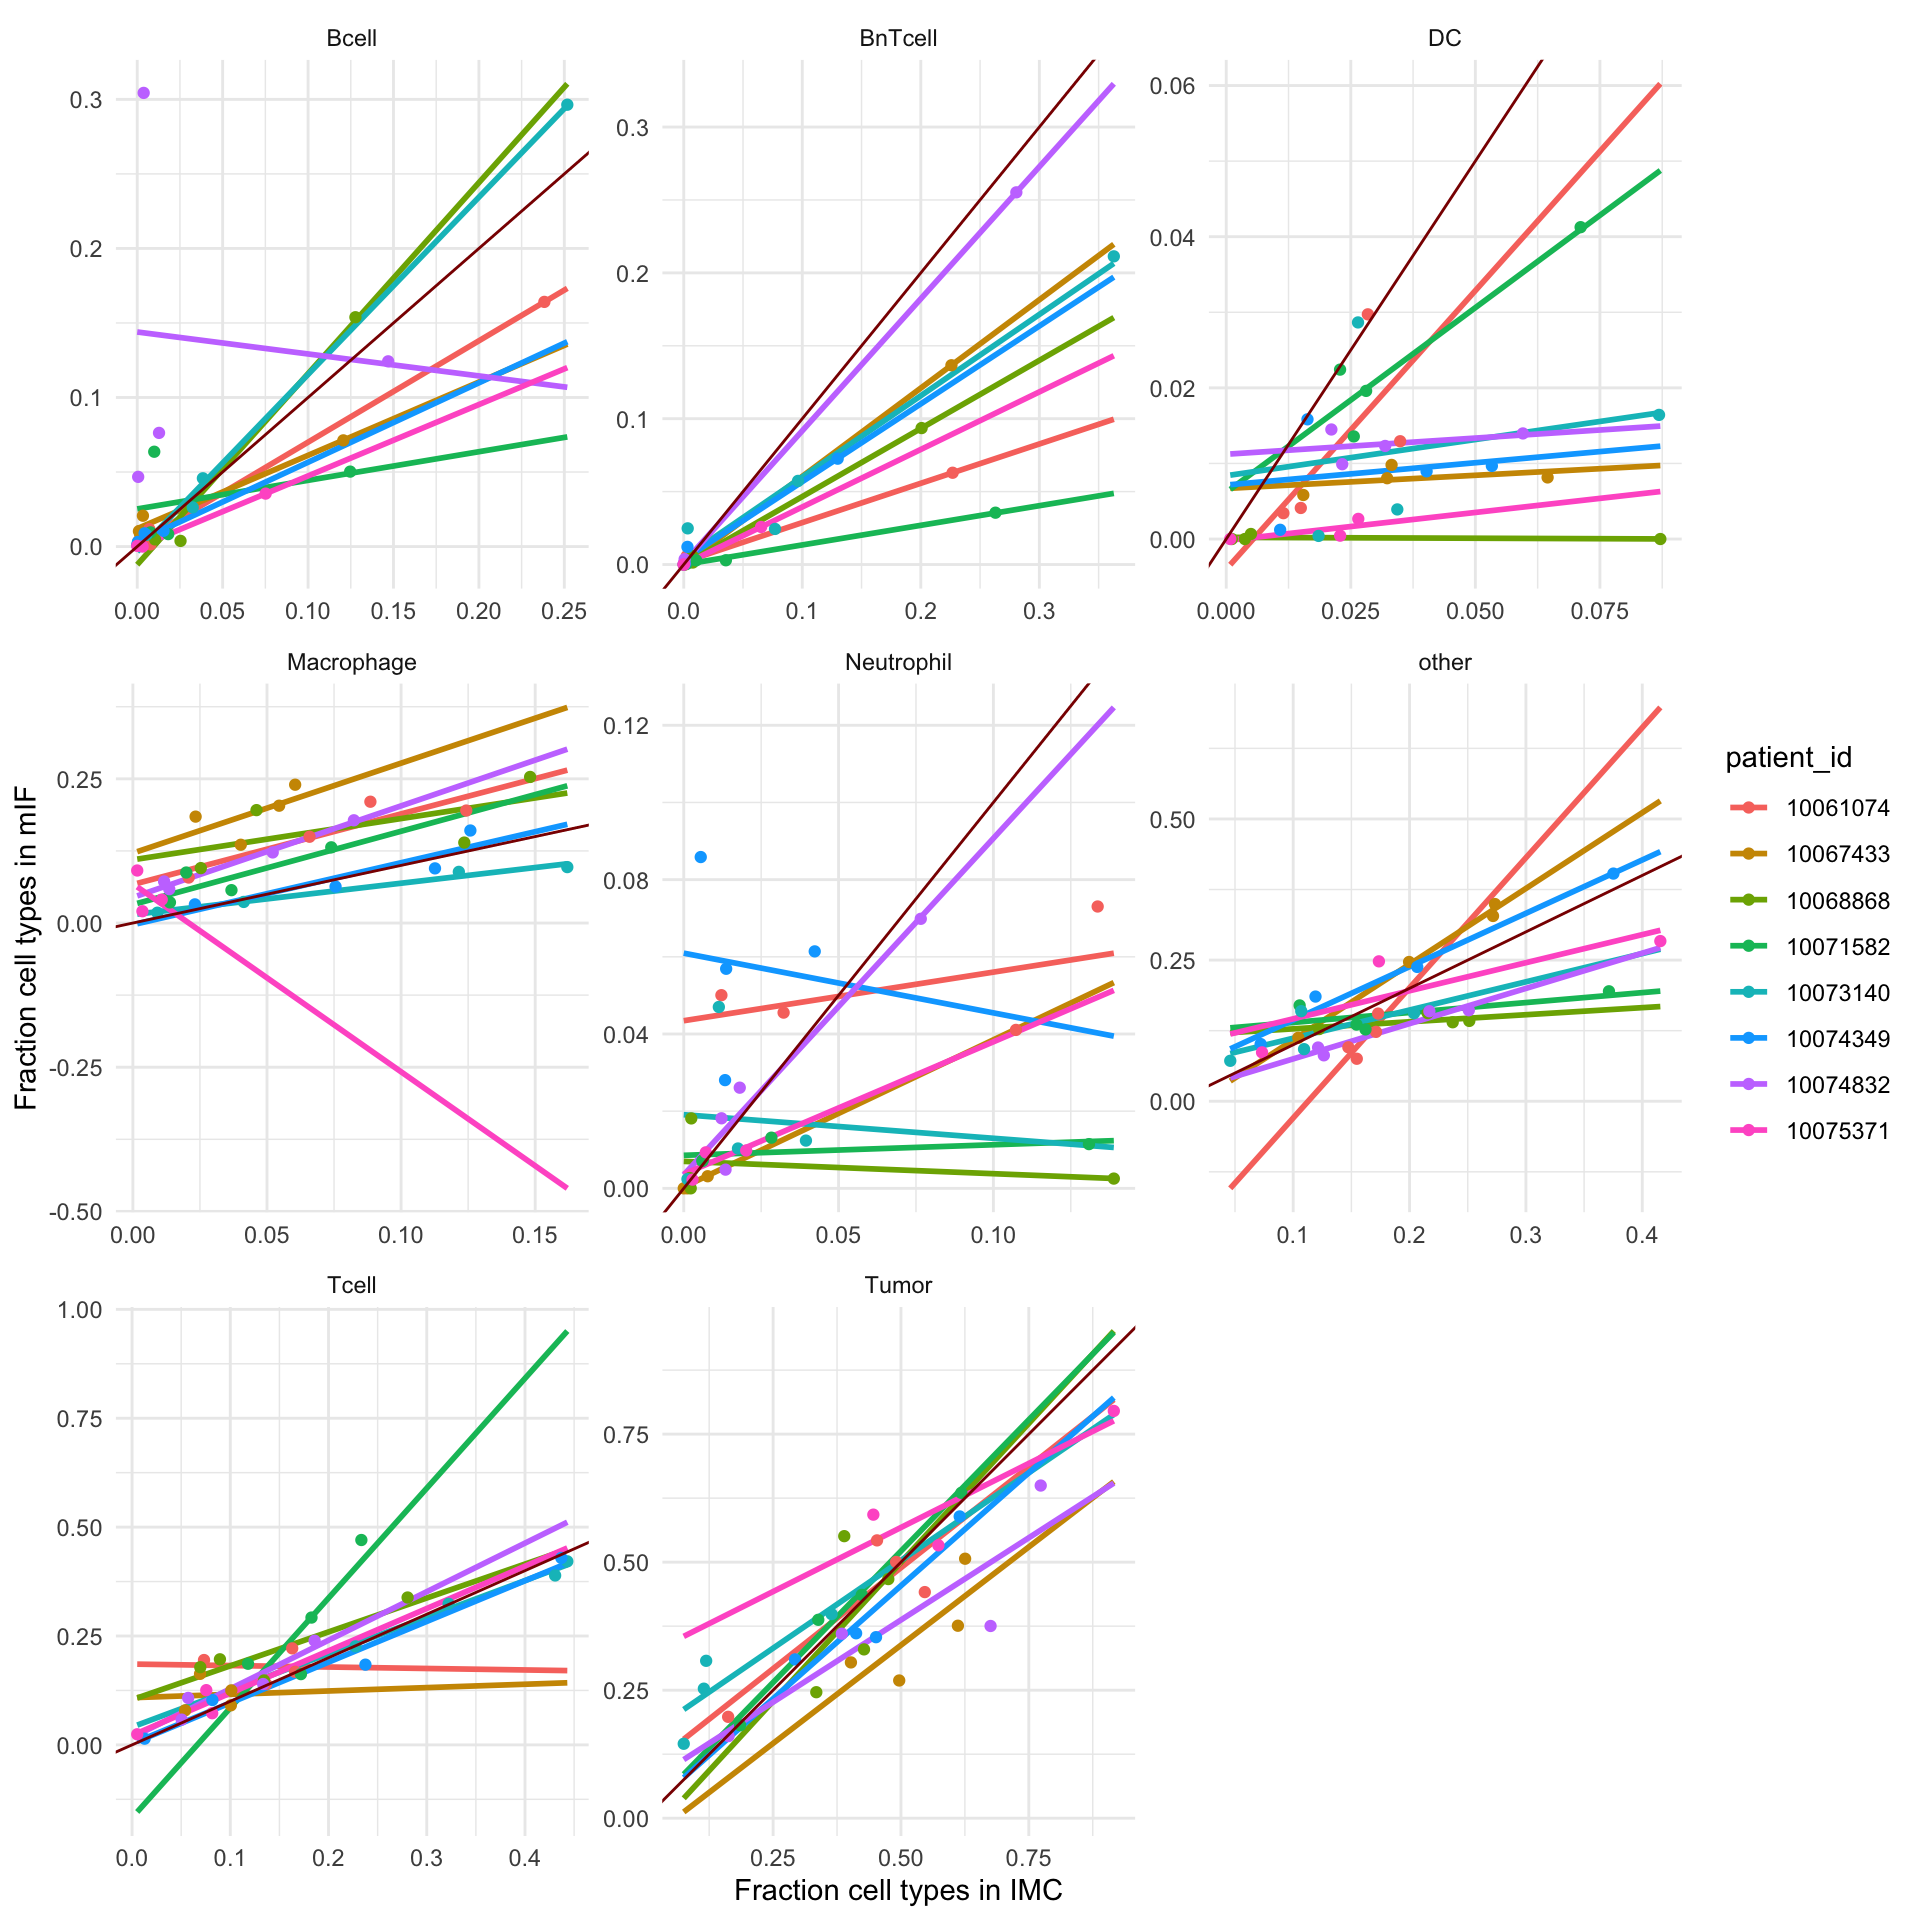
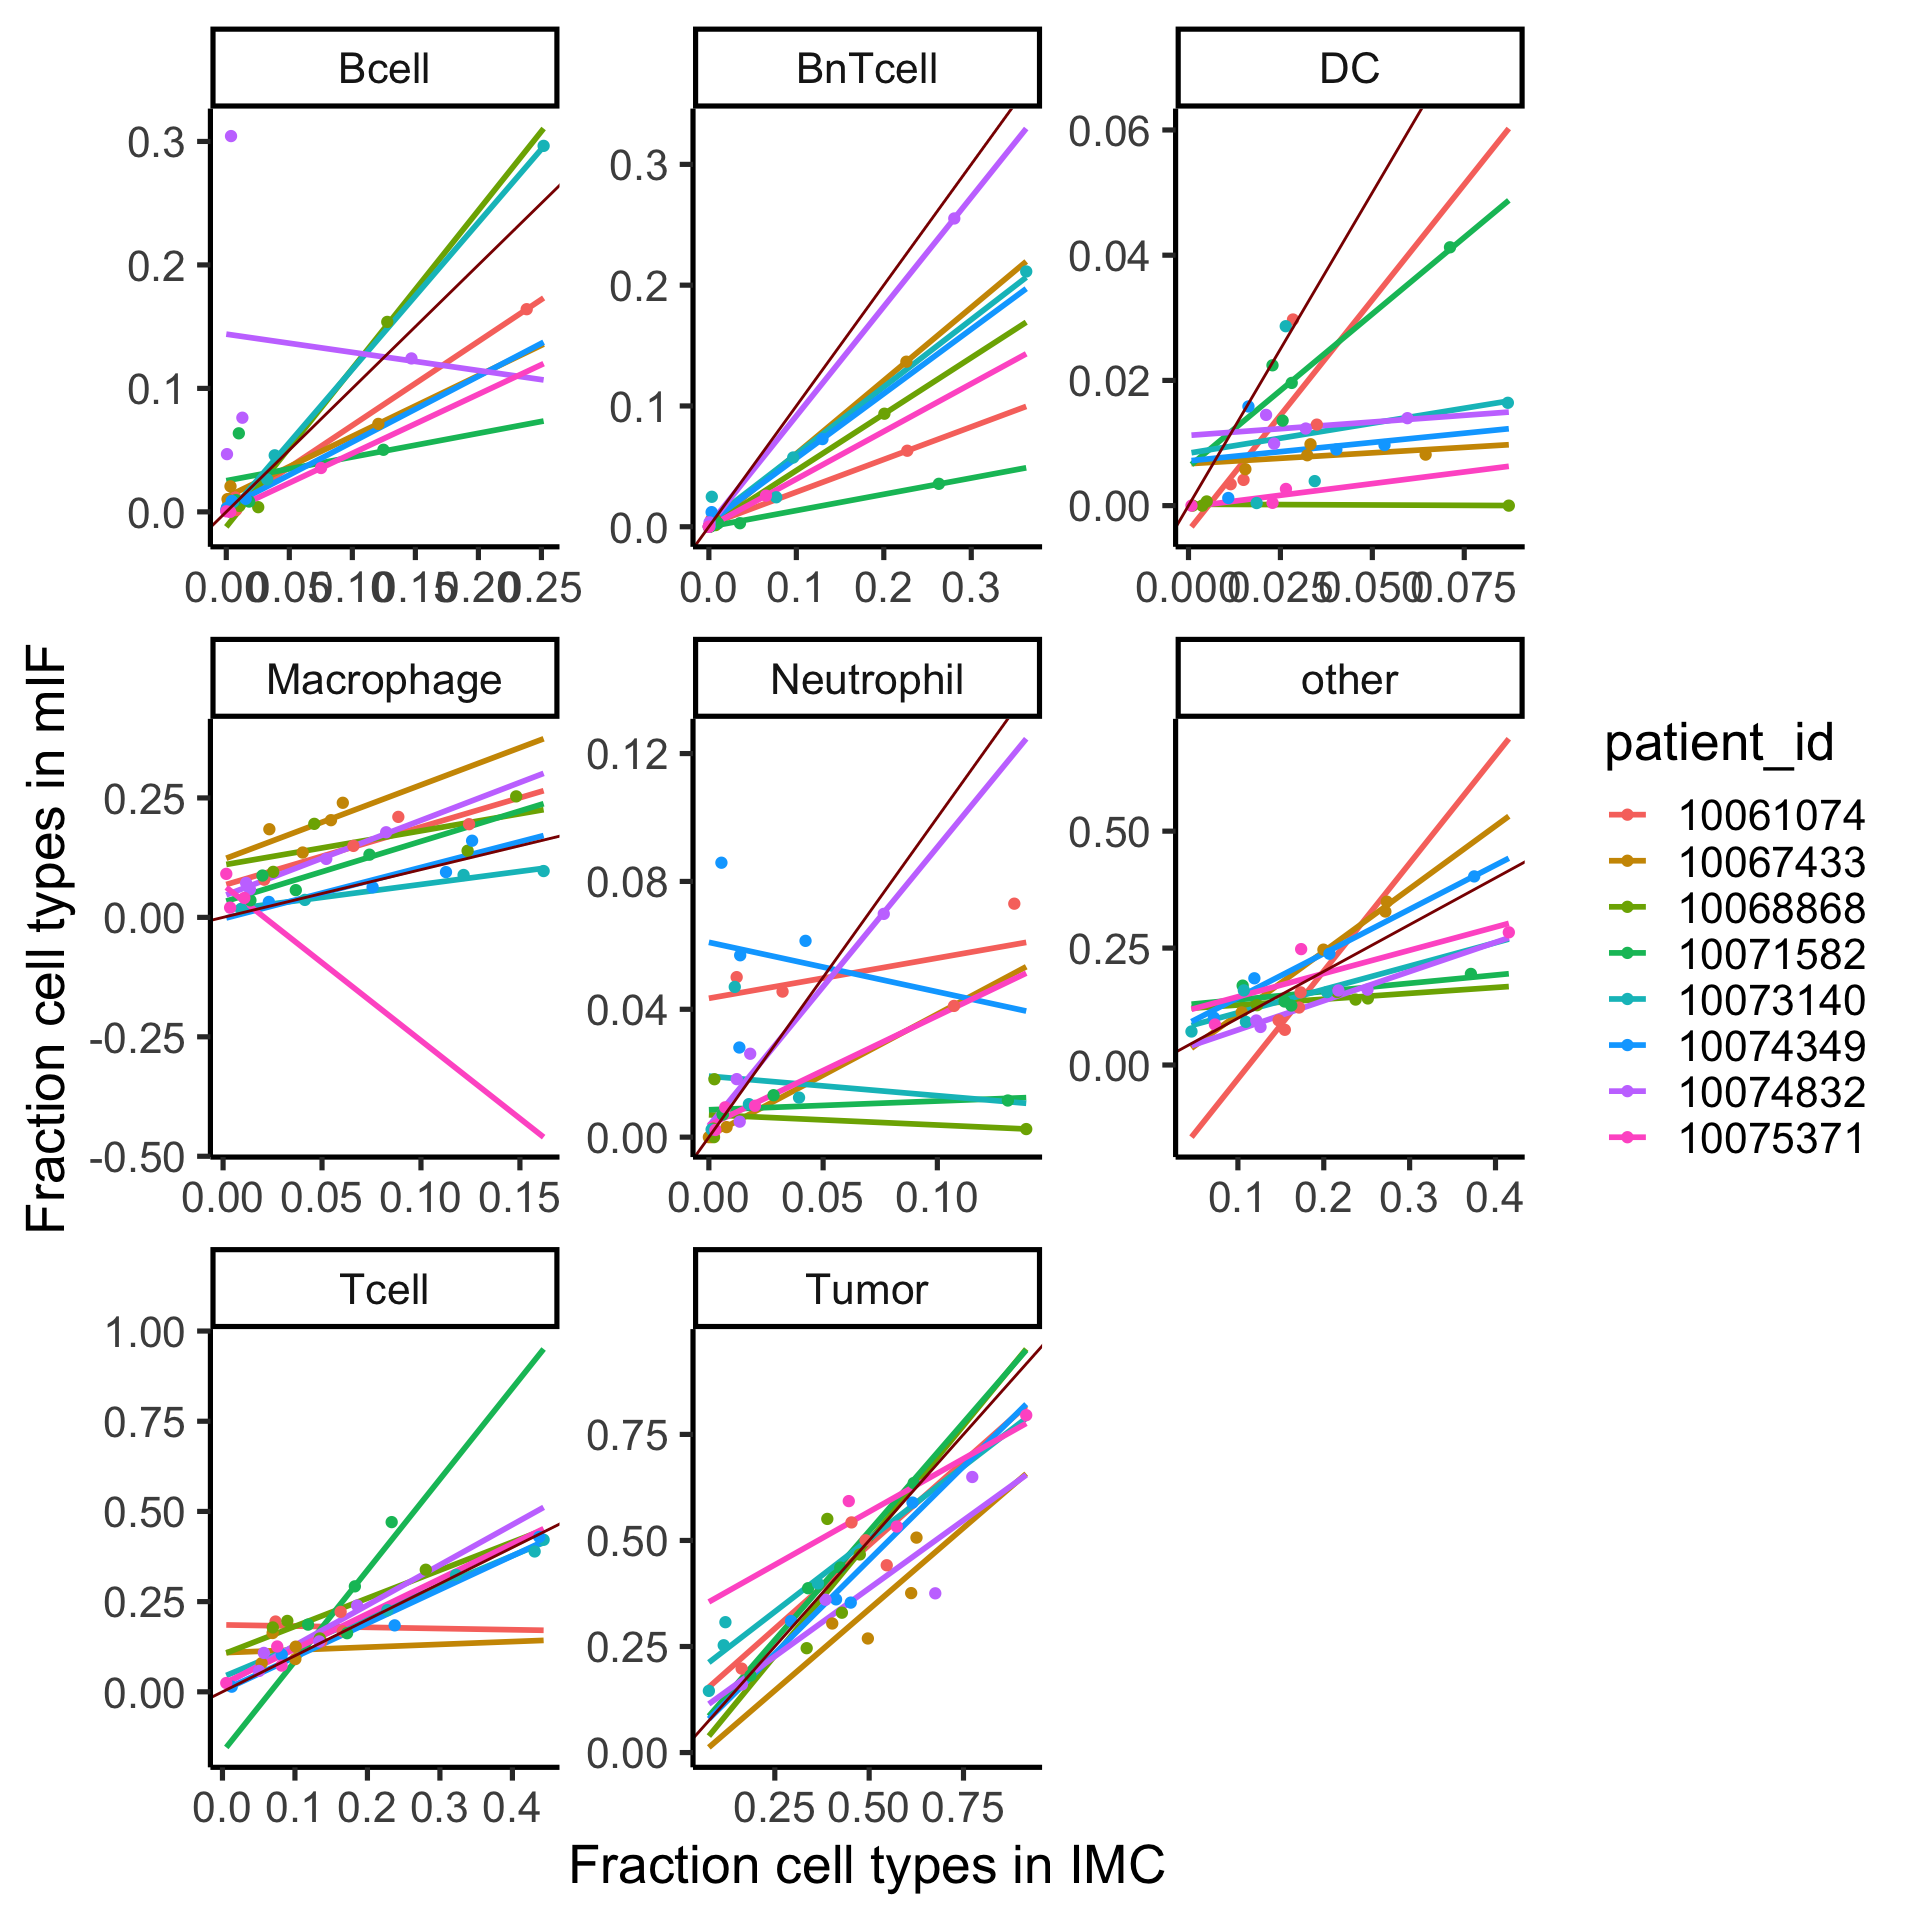
Adjusted base size

Changed region(s): [[0.0, 0.0, 1.0, 1.0], [0.8438, 0.0312, 0.875, 0.0625], [0.5938, 0.3438, 0.625, 0.375]]

diff --git a/comparisons/docs/01_celltype_correlations.html b/comparisons/docs/01_celltype_correlations.html
@@ -381,7 +381,7 @@ aria-hidden="true"></span> </a>
 <div class="tab-content">
 <div id="summary" class="tab-pane fade in active">
 <p>
-<strong>Last updated:</strong> 2022-05-02
+<strong>Last updated:</strong> 2022-05-03
 </p>
 <p>
 <strong>Checks:</strong> <span
@@ -515,15 +515,15 @@ project makes it easier to run your code on other machines.</p>
 <div class="panel panel-default">
 <div class="panel-heading">
 <p class="panel-title">
-<a data-toggle="collapse" data-parent="#workflowr-checks" href="#strongRepositoryversionstrongahrefhttpsgithubcomBodenmillerIMMUcanIMMUcanWorkflow2021treeadd09ed9175efe0986f12d7748eac4ca4d3fca7ftargetblankadd09eda">
+<a data-toggle="collapse" data-parent="#workflowr-checks" href="#strongRepositoryversionstrongahrefhttpsgithubcomBodenmillerIMMUcanIMMUcanWorkflow2021tree75d0a6df2a424569fc993d7f2034379ea37c1598targetblank75d0a6da">
 <span class="glyphicon glyphicon-ok text-success"
 aria-hidden="true"></span> <strong>Repository version:</strong>
-<a href="https://github.com/BodenmillerIMMUcan/IMMUcanWorkflow2021/tree/add09ed9175efe0986f12d7748eac4ca4d3fca7f" target="_blank">add09ed</a>
+<a href="https://github.com/BodenmillerIMMUcan/IMMUcanWorkflow2021/tree/75d0a6df2a424569fc993d7f2034379ea37c1598" target="_blank">75d0a6d</a>
 </a>
 </p>
 </div>
 <div
[2 lines of base64/hex data omitted]
 class="panel-collapse collapse">
 <div class="panel-body">
 <p>
@@ -533,7 +533,7 @@ reproducibility.
 </p>
 <p>
 The results in this page were generated with repository version
-<a href="https://github.com/BodenmillerIMMUcan/IMMUcanWorkflow2021/tree/add09ed9175efe0986f12d7748eac4ca4d3fca7f" target="_blank">add09ed</a>.
+<a href="https://github.com/BodenmillerIMMUcan/IMMUcanWorkflow2021/tree/75d0a6df2a424569fc993d7f2034379ea37c1598" target="_blank">75d0a6d</a>.
 See the <em>Past versions</em> tab to see a history of the changes made
 to the R Markdown and HTML files.
 </p>
@@ -609,6 +609,40 @@ Message
 </tr>
 </thead>
 <tbody>
+<tr>
+<td>
+Rmd
+</td>
+<td>
+<a href="https://github.com/BodenmillerIMMUcan/IMMUcanWorkflow2021/blob/75d0a6df2a424569fc993d7f2034379ea37c1598/comparisons/analysis/01_celltype_correlations.Rmd" target="_blank">75d0a6d</a>
+</td>
+<td>
+nilseling
+</td>
+<td>
+2022-05-02
+</td>
+<td>
+Added differential abundance testing
+</td>
+</tr>
+<tr>
+<td>
+html
+</td>
+<td>
+<a href="https://rawcdn.githack.com/BodenmillerIMMUcan/IMMUcanWorkflow2021/75d0a6df2a424569fc993d7f2034379ea37c1598/comparisons/docs/01_celltype_correlations.html" target="_blank">75d0a6d</a>
+</td>
+<td>
+nilseling
+</td>
+<td>
+2022-05-02
+</td>
+<td>
+Added differential abundance testing
+</td>
+</tr>
 <tr>
 <td>
 Rmd
@@ -855,7 +889,7 @@ ggplot(combined_df) +
   geom_point(aes(frac.x, frac.y, color = patient_id)) + 
   geom_abline(slope = 1, intercept = 0, color = &quot;dark red&quot;) +
   geom_smooth(aes(frac.x, frac.y), method=&#39;lm&#39;, formula= y~x, fullrange=TRUE) + 
-  theme_minimal() + xlab(&quot;Fraction cell types in IMC&quot;) + ylab(&quot;Fraction cell types in mIF&quot;) +
+  theme_classic(base_size = 20) + xlab(&quot;Fraction cell types in IMC&quot;) + ylab(&quot;Fraction cell types in mIF&quot;) +
   facet_wrap(.~celltype, scales = &quot;fixed&quot;) </code></pre>
 <p><img src="figure/01_celltype_correlations.Rmd/celltype-fractions-1.png" width="960" style="display: block; margin: auto;" /></p>
 <p>
@@ -882,6 +916,17 @@ Date
 <tbody>
 <tr>
 <td>
+<a href="https://github.com/BodenmillerIMMUcan/IMMUcanWorkflow2021/blob/75d0a6df2a424569fc993d7f2034379ea37c1598/comparisons/docs/figure/01_celltype_correlations.Rmd/celltype-fractions-1.png" target="_blank">75d0a6d</a>
+</td>
+<td>
+nilseling
+</td>
+<td>
+2022-05-02
+</td>
+</tr>
+<tr>
+<td>
 <a href="https://github.com/BodenmillerIMMUcan/IMMUcanWorkflow2021/blob/2a2141368265bcc975aeb5543b40fad8d4b93375/comparisons/docs/figure/01_celltype_correlations.Rmd/celltype-fractions-1.png" target="_blank">2a21413</a>
 </td>
 <td>
@@ -899,7 +944,7 @@ nilseling
   geom_smooth(aes(frac.x, frac.y, color = patient_id),  se = FALSE, method=&#39;lm&#39;, formula= y~x, fullrange=TRUE) + 
   geom_point(aes(frac.x, frac.y, color = patient_id)) + 
   geom_abline(slope = 1, intercept = 0, color = &quot;dark red&quot;) +
-  theme_minimal() + xlab(&quot;Fraction cell types in IMC&quot;) + ylab(&quot;Fraction cell types in mIF&quot;) + 
+  theme_classic(base_size = 20) + xlab(&quot;Fraction cell types in IMC&quot;) + ylab(&quot;Fraction cell types in mIF&quot;) + 
   facet_wrap(.~celltype, scales = &quot;free&quot;) </code></pre>
 <p><img src="figure/01_celltype_correlations.Rmd/celltype-fractions-2.png" width="960" style="display: block; margin: auto;" /></p>
 <p>
@@ -926,6 +971,17 @@ Date
 <tbody>
 <tr>
 <td>
+<a href="https://github.com/BodenmillerIMMUcan/IMMUcanWorkflow2021/blob/75d0a6df2a424569fc993d7f2034379ea37c1598/comparisons/docs/figure/01_celltype_correlations.Rmd/celltype-fractions-2.png" target="_blank">75d0a6d</a>
+</td>
+<td>
+nilseling
+</td>
+<td>
+2022-05-02
+</td>
+</tr>
+<tr>
+<td>
 <a href="https://github.com/BodenmillerIMMUcan/IMMUcanWorkflow2021/blob/2a2141368265bcc975aeb5543b40fad8d4b93375/comparisons/docs/figure/01_celltype_correlations.Rmd/celltype-fractions-2.png" target="_blank">2a21413</a>
 </td>
 <td>
@@ -950,7 +1006,8 @@ nilseling
   ggplot() +
     geom_boxplot(aes(celltype, cor)) +
     geom_point(aes(celltype, cor, color = patient_id)) +
-    geom_point(aes(celltype, cor_all), color = &quot;dark red&quot;, size = 3)</code></pre>
+    geom_point(aes(celltype, cor_all), color = &quot;dark red&quot;, size = 3) +
+    theme_classic(base_size = 20) + theme(axis.text.x = element_text(angle = 90, hjust = 1))</code></pre>
 <pre><code>`summarise()` has grouped output by &#39;celltype&#39;. You can override using the
 `.groups` argument.</code></pre>
 <p><img src="figure/01_celltype_correlations.Rmd/correlation-1.png" width="672" style="display: block; margin: auto;" /></p>
@@ -976,6 +1033,17 @@ Date
 </tr>
 </thead>
 <tbody>
+<tr>
+<td>
+<a href="https://github.com/BodenmillerIMMUcan/IMMUcanWorkflow2021/blob/75d0a6df2a424569fc993d7f2034379ea37c1598/comparisons/docs/figure/01_celltype_correlations.Rmd/correlation-1.png" target="_blank">75d0a6d</a>
+</td>
+<td>
+nilseling
+</td>
+<td>
+2022-05-02
+</td>
+</tr>
 <tr>
 <td>
 <a href="https://github.com/BodenmillerIMMUcan/IMMUcanWorkflow2021/blob/add09ed9175efe0986f12d7748eac4ca4d3fca7f/comparisons/docs/figure/01_celltype_correlations.Rmd/correlation-1.png" target="_blank">add09ed</a>
@@ -1056,12 +1124,86 @@ summary(y.ab$common.dispersion)</code></pre>
  0.3088  0.3088  0.3088  0.3088  0.3088  0.3088 </code></pre>
 <pre class="r"><code>plotBCV(y.ab, cex=1)</code></pre>
 <p><img src="figure/01_celltype_correlations.Rmd/test-DA-1.png" width="672" style="display: block; margin: auto;" /></p>
+<p>
+<button type="button" class="btn btn-default btn-xs btn-workflowr btn-workflowr-fig" data-toggle="collapse" data-target="#fig-test-DA-1">
+Past versions of test-DA-1.png
+</button>
+</p>
+<div id="fig-test-DA-1" class="collapse">
+<div class="table-responsive">
+<table class="table table-condensed table-hover">
+<thead>
+<tr>
+<th>
+Version
+</th>
+<th>
+Author
+</th>
+<th>
+Date
+</th>
+</tr>
+</thead>
+<tbody>
+<tr>
+<td>
+<a href="https://github.com/BodenmillerIMMUcan/IMMUcanWorkflow2021/blob/75d0a6df2a424569fc993d7f2034379ea37c1598/comparisons/docs/figure/01_celltype_correlations.Rmd/test-DA-1.png" target="_blank">75d0a6d</a>
+</td>
+<td>
+nilseling
+</td>
+<td>
+2022-05-02
+</td>
+</tr>
+</tbody>
+</table>
+</div>
+</div>
 <pre class="r"><code>fit.ab &lt;- glmQLFit(y.ab, design, robust=TRUE, abundance.trend=FALSE)
 summary(fit.ab$var.prior)</code></pre>
 <pre><code>   Min. 1st Qu.  Median    Mean 3rd Qu.    Max. 
  0.5219  0.5219  0.5219  0.5219  0.5219  0.5219 </code></pre>
 <pre class="r"><code>plotQLDisp(fit.ab, cex=1)</code></pre>
 <p><img src="figure/01_celltype_correlations.Rmd/test-DA-2.png" width="672" style="display: block; margin: auto;" /></p>
+<p>
+<button type="button" class="btn btn-default btn-xs btn-workflowr btn-workflowr-fig" data-toggle="collapse" data-target="#fig-test-DA-2">
+Past versions of test-DA-2.png
+</button>
+</p>
+<div id="fig-test-DA-2" class="collapse">
+<div class="table-responsive">
+<table class="table table-condensed table-hover">
+<thead>
+<tr>
+<th>
+Version
+</th>
+<th>
+Author
+</th>
+<th>
+Date
+</th>
+</tr>
+</thead>
+<tbody>
+<tr>
+<td>
+<a href="https://github.com/BodenmillerIMMUcan/IMMUcanWorkflow2021/blob/75d0a6df2a424569fc993d7f2034379ea37c1598/comparisons/docs/figure/01_celltype_correlations.Rmd/test-DA-2.png" target="_blank">75d0a6d</a>
+</td>
+<td>
+nilseling
+</td>
+<td>
+2022-05-02
+</td>
+</tr>
+</tbody>
+</table>
+</div>
+</div>
 <pre class="r"><code># Test for differential abundance of cell types in PT vs met tissue and plot
 res &lt;- glmQLFTest(fit.ab, coef=colnames(fit.ab)[ncol(fit.ab)])
 summary(decideTests(res))</code></pre>
@@ -1097,12 +1239,86 @@ ggplot(DA) + geom_point(aes(logFC, -log10(FDR), color = sign)) +
   geom_label_repel(aes(logFC, -log10(FDR), label = celltype)) + 
   theme_classic()</code></pre>
 <p><img src="figure/01_celltype_correlations.Rmd/test-DA-3.png" width="672" style="display: block; margin: auto;" /></p>
+<p>
+<button type="button" class="btn btn-default btn-xs btn-workflowr btn-workflowr-fig" data-toggle="collapse" data-target="#fig-test-DA-3">
+Past versions of test-DA-3.png
+</button>
+</p>
+<div id="fig-test-DA-3" class="collapse">
+<div class="table-responsive">
+<table class="table table-condensed table-hover">
+<thead>
+<tr>
+<th>
+Version
+</th>
+<th>
+Author
+</th>
+<th>
+Date
+</th>
+</tr>
+</thead>
+<tbody>
+<tr>
+<td>
+<a href="https://github.com/BodenmillerIMMUcan/IMMUcanWorkflow2021/blob/75d0a6df2a424569fc993d7f2034379ea37c1598/comparisons/docs/figure/01_celltype_correlations.Rmd/test-DA-3.png" target="_blank">75d0a6d</a>
+</td>
+<td>
+nilseling
+</td>
+<td>
+2022-05-02
+</td>
+</tr>
+</tbody>
+</table>
+</div>
+</div>
 <pre class="r"><code># MA plot
 ggplot(DA) + geom_point(aes(logCPM, logFC, color = sign)) +
   geom_label_repel(aes(logCPM, logFC, label = celltype)) + 
   geom_abline(intercept = 0, slope = 0, color = &quot;dark red&quot;) +
-  theme_classic()</code></pre>
+  theme_classic(base_size = 20)</code></pre>
 <p><img src="figure/01_celltype_correlations.Rmd/test-DA-4.png" width="672" style="display: block; margin: auto;" /></p>
+<p>
+<button type="button" class="btn btn-default btn-xs btn-workflowr btn-workflowr-fig" data-toggle="collapse" data-target="#fig-test-DA-4">
+Past versions of test-DA-4.png
+</button>
+</p>
+<div id="fig-test-DA-4" class="collapse">
+<div class="table-responsive">
+<table class="table table-condensed table-hover">
+<thead>
+<tr>
+<th>
+Version
+</th>
+<th>
+Author
+</th>
+<th>
+Date
+</th>
+</tr>
+</thead>
+<tbody>
+<tr>
+<td>
+<a href="https://github.com/BodenmillerIMMUcan/IMMUcanWorkflow2021/blob/75d0a6df2a424569fc993d7f2034379ea37c1598/comparisons/docs/figure/01_celltype_correlations.Rmd/test-DA-4.png" target="_blank">75d0a6d</a>
+</td>
+<td>
+nilseling
+</td>
+<td>
+2022-05-02
+</td>
+</tr>
+</tbody>
+</table>
+</div>
+</div>
 </div>
 <div id="compare-expression-of-cell-types" class="section level2">
 <h2>Compare expression of cell types</h2>
@@ -1185,6 +1401,17 @@ Date
 </tr>
 </thead>
 <tbody>
+<tr>
+<td>
+<a href="https://github.com/BodenmillerIMMUcan/IMMUcanWorkflow2021/blob/75d0a6df2a424569fc993d7f2034379ea37c1598/comparisons/docs/figure/01_celltype_correlations.Rmd/marker-expression-viz-1.png" target="_blank">75d0a6d</a>
+</td>
+<td>
+nilseling
+</td>
+<td>
+2022-05-02
+</td>
+</tr>
 <tr>
 <td>
 <a href="https://github.com/BodenmillerIMMUcan/IMMUcanWorkflow2021/blob/add09ed9175efe0986f12d7748eac4ca4d3fca7f/comparisons/docs/figure/01_celltype_correlations.Rmd/marker-expression-viz-1.png" target="_blank">add09ed</a>
